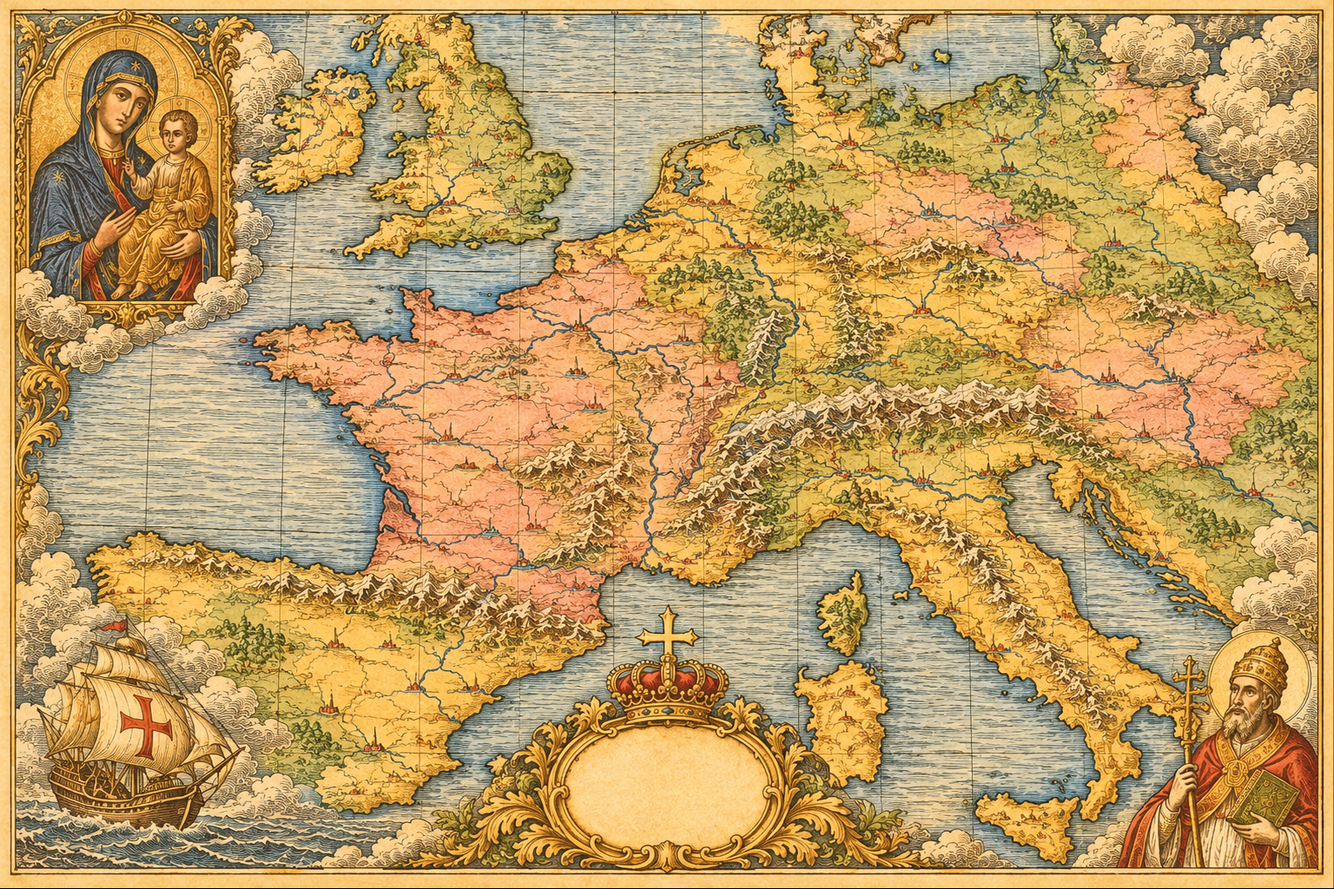
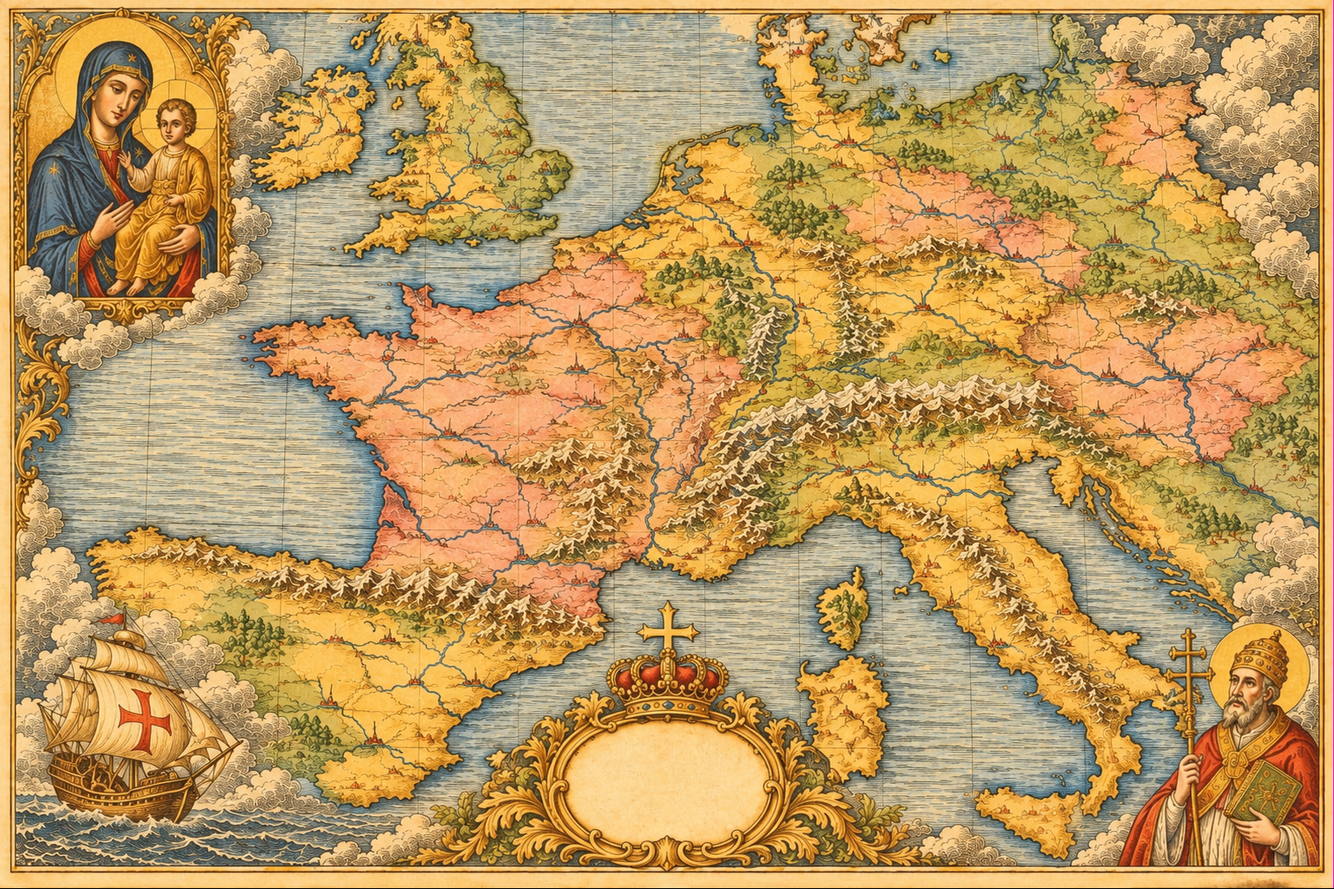
War map paintings: world and Europe fixed (no hallucinations), art only
Claude-Session: https://claude.ai/code/session_01NtmEZhP1uA8k4DLQ7BYfMz

diff --git a/docs/war_map_v1.md b/docs/war_map_v1.md
@@ -200,10 +200,11 @@ Pantocrator in the Byzantine icon style, St Michael, St Gabriel, St Peter, a red
 Enlightenment figures, no naked putti) and NO hallucinations. Plan: one world painting (two hemispheres) + one painting
 per region view (Europe, Virginia, the Amazon; Brazil for Act 2), the seals and region washes fitted to each painting by
 landmarks, the code map kept as the fallback.
-- art/campaign/warmap_world_chatgpt.png: the Catholic world sheet. STILL WRONG: St Michael's sword has two hilts,
-  Christ's halo has scribbled pseudo-letters, St Peter's keys are tangled; a fix request is written (one sword raised in
-  the right hand, shield in the left; a plain cross in the halo; two clean crossed keys).
-- art/campaign/warmap_europe_chatgpt.png: Europe traced from tools/campaign/render_region_ref.py's outline (Virgin and
-  Child icon, a pope, a red-cross ship, a crowned cartouche); to be checked figure by figure before use.
+- art/campaign/warmap_world_chatgpt.png: the Catholic world sheet, FIXED (ChatGPT edit on a third account: St Michael
+  one sword raised, St Peter two crossed keys; the pseudo-letters left in Christ's halo painted out by Claude with an
+  OpenCV inpaint). Checked figure by figure.
+- art/campaign/warmap_europe_chatgpt.png: Europe (Virgin and Child icon, a pope with the papal cross and a book, a
+  red-cross ship, a crowned cartouche), FIXED (halos cleaned by a ChatGPT edit, the Child's halo marks inpainted).
+  Checked figure by figure. Its coasts follow the outline only roughly (Ireland added): fit by landmarks.
 - Virginia and the Amazon: outlines made (render_region_ref.py -89.7 31 -66.3 43 / -74.7 -6 -53.3 5), not painted.
-Stopped 2026-11-20 23:25: one ChatGPT account out of images, the other's uploads hang.
+Stopped 2026-11-20 23:40: all three ChatGPT accounts out of images (the third gave three); Virginia and the Amazon wait for the reset.
